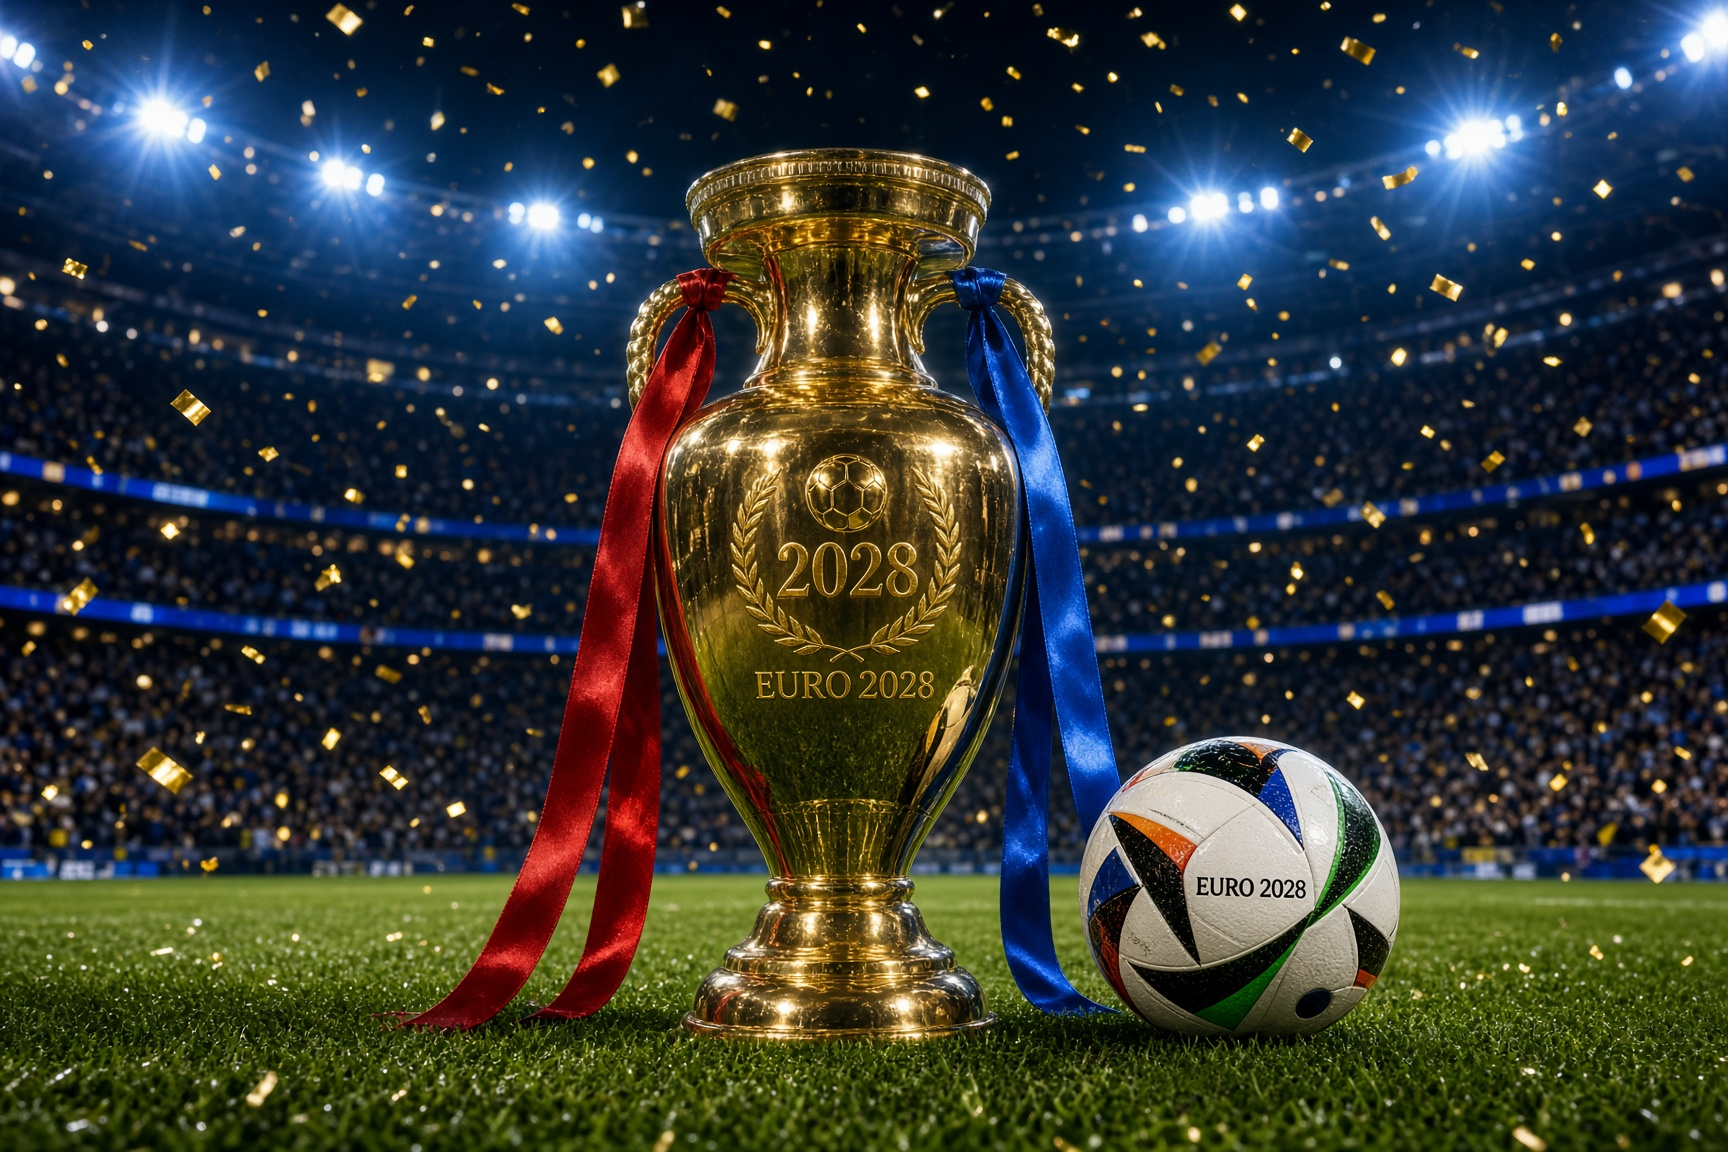
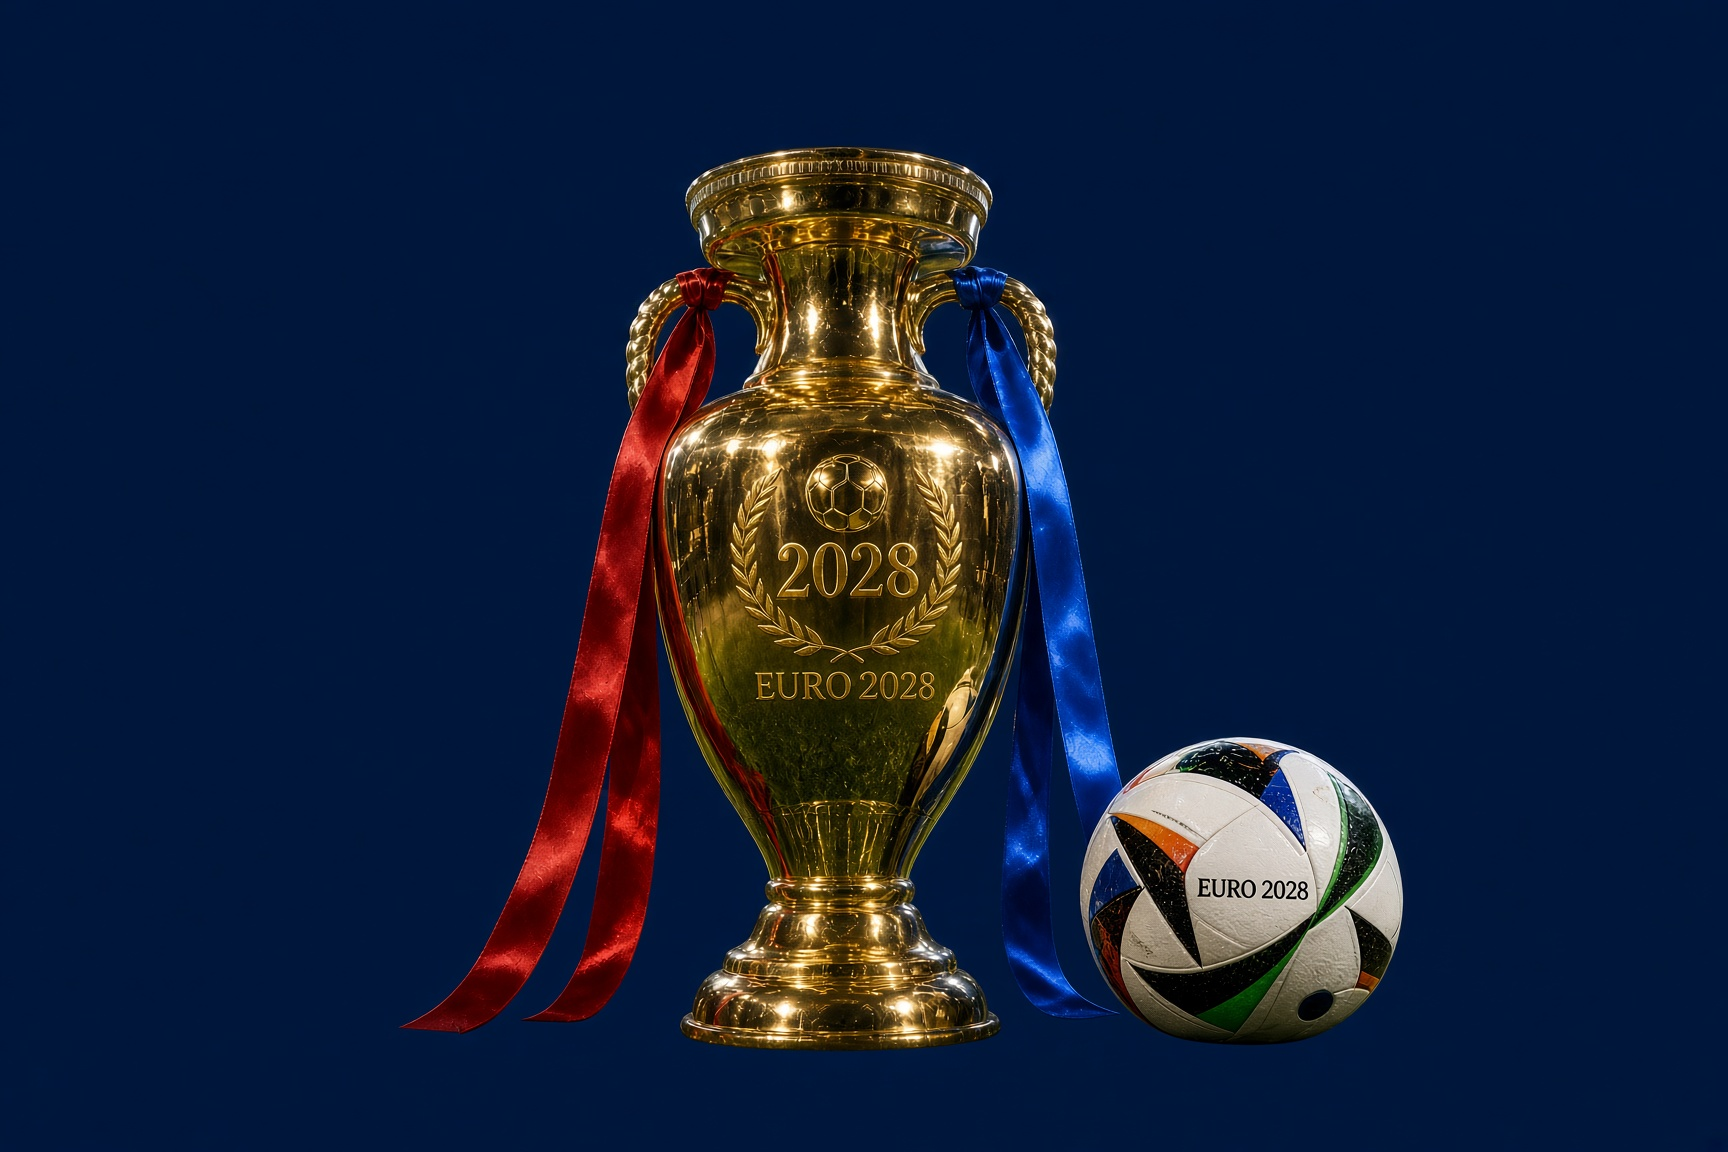
Fade the trophy into the hero background

diff --git a/app/globals.css b/app/globals.css
@@ -1,4 +1,4 @@
-*{box-sizing:border-box}html{scroll-behavior:smooth}body{margin:0;font-family:Inter,"PingFang SC","Microsoft YaHei",Arial,sans-serif;color:#0d1830;background:#07111f}a{text-decoration:none;color:inherit}.wrap,.nav{max-width:1180px;margin:auto;padding-left:28px;padding-right:28px}header{position:relative;z-index:100;width:100%;background:#fff;border-bottom:1px solid #edf1f5}header.is-stuck{background:transparent;border-bottom:0}header.is-stuck .nav{position:fixed;top:0;left:0;right:0;z-index:100;max-width:1180px;margin:0 auto;background:transparent;border-bottom:0;animation:stuckMoveDown .6s ease}header.is-stuck .nav:before{content:"";position:absolute;z-index:-1;top:0;bottom:0;left:50%;width:100vw;transform:translateX(-50%);background:#fff;border-bottom:1px solid #edf1f5;box-shadow:0 10px 28px #0d18301a}@keyframes stuckMoveDown{from{transform:translateY(-100%)}to{transform:translateY(0)}}.nav{height:78px;display:flex;align-items:center;justify-content:space-between;color:#dce9f9}.brand{font-size:24px;font-weight:900;letter-spacing:1px}.brand span{color:#42b8ff}.nav nav{display:flex;gap:30px;font-size:14px;color:#b9c9dd}.nav nav a:hover{color:white}.btn{display:inline-block;padding:14px 24px;border-radius:10px;background:linear-gradient(135deg,#159cf4,#47c4ff);font-weight:800;color:#03101d;box-shadow:0 12px 34px #159cf42b}.btn.small{padding:10px 17px;font-size:13px}.hero{min-height:760px;padding:170px 0 100px;position:relative;overflow:hidden;color:white;background:radial-gradient(ellipse at 78% 48%,#163a66 0%,rgba(10,28,52,.2) 36%,transparent 58%),linear-gradient(180deg,#07111d 0%,#081627 50%,#06101b 100%)}.hero:after{content:"";position:absolute;inset:0;background-image:linear-gradient(#ffffff08 1px,transparent 1px),linear-gradient(90deg,#ffffff08 1px,transparent 1px);background-size:52px 52px;mask-image:linear-gradient(to bottom,black,transparent)}.heroGrid{position:relative;z-index:2;display:grid;grid-template-columns:1.1fr .9fr;gap:60px;align-items:center}.eyebrow{font-size:12px;font-weight:900;letter-spacing:3px;color:#58c4ff;margin:0 0 20px}.blue{color:#168ad3}.hero h1{font-size:68px;line-height:1.06;letter-spacing:-3px;margin:0 0 26px}.hero h1 em{font-style:normal;color:#5bc7ff}.lead{font-size:18px;line-height:1.9;color:#afc2d9;max-width:610px}.actions{display:flex;align-items:center;gap:25px;margin-top:36px}.ghost{color:#d7e7f8;font-weight:700}.stats{display:flex;gap:36px;margin-top:58px;color:#8197b0;font-size:12px}.stats b{display:block;color:white;font-size:19px;margin-bottom:4px}.visual{height:430px;position:relative;display:grid;place-items:center}.orb{position:absolute;width:370px;height:370px;border-radius:50%;border:1px solid #54c6ff44;box-shadow:0 0 80px #1eaef529 inset,0 0 100px #168bd42b}.pitch{width:290px;height:290px;border-radius:50%;display:grid;place-items:center;border:1px solid #ffffff20;background:linear-gradient(145deg,#0d2a46aa,#061321aa);backdrop-filter:blur(8px);box-shadow:0 30px 80px #0008;position:relative}.pitch:before,.pitch:after{content:"";position:absolute;border-radius:50%;border:1px solid #55c6ff30}.pitch:before{inset:28px}.pitch:after{inset:58px}.pitch strong{font-size:110px;font-style:italic;color:#61c9ff;text-shadow:0 0 35px #159cf466;z-index:2}.pitch small{position:absolute;bottom:52px;color:#7897b5;font-size:9px;letter-spacing:2px}.light{background:#f5f8fc;padding:105px 0}.light h2,.dark h2,.faq h2,.cta h2{font-size:42px;margin:0 0 14px;letter-spacing:-1.5px}.sub{color:#708198;line-height:1.8;margin:0 0 45px}.grid{display:grid;grid-template-columns:repeat(3,1fr);gap:18px}.card{background:white;padding:30px;border:1px solid #e2eaf3;border-radius:15px;transition:.25s}.card:hover{transform:translateY(-5px);box-shadow:0 20px 50px #163d6512}.card span{font-size:11px;color:#159cf4;font-weight:900}.card h3{font-size:21px;margin:24px 0 10px}.card p{color:#718198;font-size:14px}.card a,.articles a{font-size:13px;color:#087fc8;font-weight:800}.dark{background:#071422;color:white;padding:110px 0}.split{display:grid;grid-template-columns:1fr 1fr;gap:90px;align-items:center}.darksub{color:#8fa7c0}.policy{display:grid;gap:12px}.policy>div{padding:22px 25px;border:1px solid #ffffff12;background:#ffffff06;border-radius:12px}.policy b{color:#4bbfff;font-size:12px}.policy h3{margin:8px 0}.policy p{color:#89a1ba;margin:0;font-size:14px}.articles{display:grid;grid-template-columns:repeat(3,1fr);gap:20px}.articles article{background:white;border-radius:14px;padding:28px;border:1px solid #e3eaf2}.articles small{color:#159cf4;font-weight:800}.articles h3{font-size:19px;line-height:1.5}.articles p{color:#74849a;font-size:14px;line-height:1.7}.faq{padding:105px 0;background:#0a1929;color:white}.faq details{border-bottom:1px solid #ffffff17;padding:20px 0;max-width:850px}.faq summary{cursor:pointer;font-size:17px;font-weight:700;list-style:none;display:flex;justify-content:space-between}.faq details p{color:#8fa7c0;line-height:1.8}.cta{text-align:center;padding:105px 0;color:white;background:radial-gradient(circle at 50% 100%,#19466b,#071321 60%)}.cta p{color:#9bb1c8}.gold{margin-top:20px;background:linear-gradient(135deg,#e5bc63,#f6dc9a);color:#1c1608}footer{background:#040b13;color:#8295a8;padding:70px 0 25px}.foot{display:grid;grid-template-columns:2fr 1fr 1fr;gap:50px;padding-top:36px;border-top:1px solid #ffffff0d}.foot>div{display:flex;flex-direction:column;gap:12px}.foot b{color:white}.copy{max-width:1180px;margin:28px auto 0;padding:8px 28px 0;border:none!important;box-shadow:none;font-size:12px}@media(max-width:800px){.nav nav{display:none}.hero{min-height:auto;padding-top:135px}.heroGrid,.split{grid-template-columns:1fr}.visual{height:330px}.hero h1{font-size:46px}.grid,.articles{grid-template-columns:1fr}.stats{gap:20px;flex-wrap:wrap}.light h2,.dark h2,.faq h2,.cta h2{font-size:34px}.foot{grid-template-columns:1fr 1fr}.foot>div:first-child{grid-column:1/-1}}
+*{box-sizing:border-box}html{scroll-behavior:smooth}body{margin:0;font-family:Inter,"PingFang SC","Microsoft YaHei",Arial,sans-serif;color:#0d1830;background:#07111f}a{text-decoration:none;color:inherit}.wrap,.nav{max-width:1180px;margin:auto;padding-left:28px;padding-right:28px}header{position:relative;z-index:100;width:100%;background:#fff;border-bottom:1px solid #edf1f5}header.is-stuck{background:transparent;border-bottom:0}header.is-stuck .nav{position:fixed;top:0;left:0;right:0;z-index:100;max-width:1180px;margin:0 auto;background:transparent;border-bottom:0;animation:stuckMoveDown .6s ease}header.is-stuck .nav:before{content:"";position:absolute;z-index:-1;top:0;bottom:0;left:50%;width:100vw;transform:translateX(-50%);background:#fff;border-bottom:1px solid #edf1f5;box-shadow:0 10px 28px #0d18301a}@keyframes stuckMoveDown{from{transform:translateY(-100%)}to{transform:translateY(0)}}.nav{height:78px;display:flex;align-items:center;justify-content:space-between;color:#dce9f9}.brand{font-size:24px;font-weight:900;letter-spacing:1px}.brand span{color:#42b8ff}.nav nav{display:flex;gap:30px;font-size:14px;color:#b9c9dd}.nav nav a:hover{color:white}.btn{display:inline-block;padding:14px 24px;border-radius:10px;background:linear-gradient(135deg,#159cf4,#47c4ff);font-weight:800;color:#03101d;box-shadow:0 12px 34px #159cf42b}.btn.small{padding:10px 17px;font-size:13px}.hero{min-height:760px;padding:170px 0 100px;position:relative;overflow:hidden;color:white;background:radial-gradient(ellipse at 72% 50%,#0a3d78 0%,#00163c 32%,#07111d 70%)}.hero:after{content:"";position:absolute;inset:0;background-image:linear-gradient(#ffffff08 1px,transparent 1px),linear-gradient(90deg,#ffffff08 1px,transparent 1px);background-size:52px 52px;mask-image:linear-gradient(to bottom,black,transparent)}.heroGrid{position:relative;z-index:2;display:grid;grid-template-columns:1.1fr .9fr;gap:60px;align-items:center}.eyebrow{font-size:12px;font-weight:900;letter-spacing:3px;color:#58c4ff;margin:0 0 20px}.blue{color:#168ad3}.hero h1{font-size:68px;line-height:1.06;letter-spacing:-3px;margin:0 0 26px}.hero h1 em{font-style:normal;color:#5bc7ff}.lead{font-size:18px;line-height:1.9;color:#afc2d9;max-width:610px}.actions{display:flex;align-items:center;gap:25px;margin-top:36px}.ghost{color:#d7e7f8;font-weight:700}.stats{display:flex;gap:36px;margin-top:58px;color:#8197b0;font-size:12px}.stats b{display:block;color:white;font-size:19px;margin-bottom:4px}.visual{height:430px;position:relative;display:grid;place-items:center}.orb{position:absolute;width:370px;height:370px;border-radius:50%;border:1px solid #54c6ff44;box-shadow:0 0 80px #1eaef529 inset,0 0 100px #168bd42b}.pitch{width:290px;height:290px;border-radius:50%;display:grid;place-items:center;border:1px solid #ffffff20;background:linear-gradient(145deg,#0d2a46aa,#061321aa);backdrop-filter:blur(8px);box-shadow:0 30px 80px #0008;position:relative}.pitch:before,.pitch:after{content:"";position:absolute;border-radius:50%;border:1px solid #55c6ff30}.pitch:before{inset:28px}.pitch:after{inset:58px}.pitch strong{font-size:110px;font-style:italic;color:#61c9ff;text-shadow:0 0 35px #159cf466;z-index:2}.pitch small{position:absolute;bottom:52px;color:#7897b5;font-size:9px;letter-spacing:2px}.light{background:#f5f8fc;padding:105px 0}.light h2,.dark h2,.faq h2,.cta h2{font-size:42px;margin:0 0 14px;letter-spacing:-1.5px}.sub{color:#708198;line-height:1.8;margin:0 0 45px}.grid{display:grid;grid-template-columns:repeat(3,1fr);gap:18px}.card{background:white;padding:30px;border:1px solid #e2eaf3;border-radius:15px;transition:.25s}.card:hover{transform:translateY(-5px);box-shadow:0 20px 50px #163d6512}.card span{font-size:11px;color:#159cf4;font-weight:900}.card h3{font-size:21px;margin:24px 0 10px}.card p{color:#718198;font-size:14px}.card a,.articles a{font-size:13px;color:#087fc8;font-weight:800}.dark{background:#071422;color:white;padding:110px 0}.split{display:grid;grid-template-columns:1fr 1fr;gap:90px;align-items:center}.darksub{color:#8fa7c0}.policy{display:grid;gap:12px}.policy>div{padding:22px 25px;border:1px solid #ffffff12;background:#ffffff06;border-radius:12px}.policy b{color:#4bbfff;font-size:12px}.policy h3{margin:8px 0}.policy p{color:#89a1ba;margin:0;font-size:14px}.articles{display:grid;grid-template-columns:repeat(3,1fr);gap:20px}.articles article{background:white;border-radius:14px;padding:28px;border:1px solid #e3eaf2}.articles small{color:#159cf4;font-weight:800}.articles h3{font-size:19px;line-height:1.5}.articles p{color:#74849a;font-size:14px;line-height:1.7}.faq{padding:105px 0;background:#0a1929;color:white}.faq details{border-bottom:1px solid #ffffff17;padding:20px 0;max-width:850px}.faq summary{cursor:pointer;font-size:17px;font-weight:700;list-style:none;display:flex;justify-content:space-between}.faq details p{color:#8fa7c0;line-height:1.8}.cta{text-align:center;padding:105px 0;color:white;background:radial-gradient(circle at 50% 100%,#19466b,#071321 60%)}.cta p{color:#9bb1c8}.gold{margin-top:20px;background:linear-gradient(135deg,#e5bc63,#f6dc9a);color:#1c1608}footer{background:#040b13;color:#8295a8;padding:70px 0 25px}.foot{display:grid;grid-template-columns:2fr 1fr 1fr;gap:50px;padding-top:36px;border-top:1px solid #ffffff0d}.foot>div{display:flex;flex-direction:column;gap:12px}.foot b{color:white}.copy{max-width:1180px;margin:28px auto 0;padding:8px 28px 0;border:none!important;box-shadow:none;font-size:12px}@media(max-width:800px){.nav nav{display:none}.hero{min-height:auto;padding-top:135px}.heroGrid,.split{grid-template-columns:1fr}.visual{height:330px}.hero h1{font-size:46px}.grid,.articles{grid-template-columns:1fr}.stats{gap:20px;flex-wrap:wrap}.light h2,.dark h2,.faq h2,.cta h2{font-size:34px}.foot{grid-template-columns:1fr 1fr}.foot>div:first-child{grid-column:1/-1}}
 
 /* ===== 顶部导航 V2 ===== */
 header{position:relative;z-index:100;width:100%;background:#ffffff;border-bottom:1px solid #edf1f5;}
@@ -42,4 +42,4 @@ header nav a:hover{color:#168fd3;}
 .licenseMarks{display:grid;grid-template-columns:1fr 1fr;gap:24px;align-items:center;justify-items:center;margin-bottom:18px}
 .licenseMarks img{width:min(195px,80%);height:auto;display:block;filter:grayscale(1) brightness(1.6);transition:filter .2s ease}.licenseMarks img:hover{filter:none}
 .license p{margin:0;color:#8ea0b4;font-size:14px;line-height:1.9}
-.visual{height:560px;position:relative}.heroShot{position:absolute;left:-6%;top:50%;width:118%;height:124%;transform:translateY(-50%);object-fit:cover;object-position:center 42%;display:block;-webkit-mask-image:radial-gradient(ellipse at 58% 48%,#000 36%,rgba(0,0,0,.72) 58%,transparent 76%);mask-image:radial-gradient(ellipse at 58% 48%,#000 36%,rgba(0,0,0,.72) 58%,transparent 76%)}@media(max-width:800px){.visual{height:320px}}
+.visual{height:560px;position:relative}.heroShot{position:absolute;left:-14%;top:48%;width:132%;height:138%;transform:translateY(-50%);object-fit:cover;object-position:center 46%;display:block;-webkit-mask-image:radial-gradient(ellipse at 56% 50%,#000 26%,rgba(0,0,0,.45) 46%,transparent 66%);mask-image:radial-gradient(ellipse at 56% 50%,#000 26%,rgba(0,0,0,.45) 46%,transparent 66%)}
